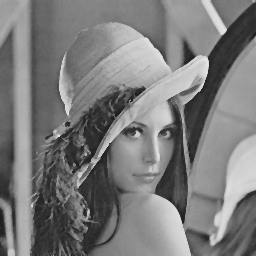
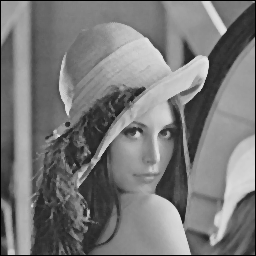
feat(mvk_filter) Optimize median-filter3x3

diff --git a/src/modules/filter/src/median_filter.cpp b/src/modules/filter/src/median_filter.cpp
@@ -86,6 +86,7 @@ namespace mvk
         return 0;
     }
 
+    //比较获取两个数字最大最小值
     template<typename T>
     inline void SwapSort(T& a, T& b)
     {
@@ -100,32 +101,50 @@ namespace mvk
     {
         //参数检查
         if(src.GetData() == nullptr){ return -1; }
+        int channel = src.GetChannel();
         int rows = src.GetHeight();
-        int cols = src.GetWidth();
+        int cols = src.GetWidth() * channel;
 
         //边界只有1无需扩充边界
-        dst = src.Copy();
+        uint8_t* data = new uint8_t[rows * cols * channel]();
+        if(1 == channel)
+        {
+            dst = Image(data, src.GetHeight(), src.GetWidth(), IMAGE_FORMAT::MONO_8_BIT);
+        }else if(3 == channel)
+        {
+            dst = Image(data, src.GetHeight(), src.GetWidth(), IMAGE_FORMAT::RGB_24_BIT);
+        }else
+        {
+            dst = src.Copy();
+            return -1;
+        }
 
         //遍历进行中值滤波
         constexpr std::size_t simd_size = xsimd::simd_type<uint8_t>::size;
-        int vec_size = cols - (cols - 2) % simd_size - 2;
+        int vec_size = cols - (cols - 2 * channel) % simd_size - 2 *channel;
 
         #pragma omp parallel for
         for(int i = 1; i < rows - 1; i++)
         {
-            for(int j = 1; j < vec_size; j += simd_size)
+            uint8_t* row0 = src.GetRow(i - 1);
+            uint8_t* row1 = src.GetRow(i);
+            uint8_t* row2 = src.GetRow(i + 1);
+            uint8_t* row_dst = dst.GetRow(i);
+
+            //simd指令集优化
+            for(int j = channel; j < vec_size; j += simd_size)
             {
-                auto P0 = xsimd::load_unaligned(src.GetPixel(i , j));
-                auto P1 = xsimd::load_unaligned(src.GetPixel(i - 1, j));
-                auto P2 = xsimd::load_unaligned(src.GetPixel(i - 1, j +1));
+                auto P0 = xsimd::load_unaligned(row0 + j - channel);
+                auto P1 = xsimd::load_unaligned(row0 + j);
+                auto P2 = xsimd::load_unaligned(row0 + j + channel);
 
-                auto P3 = xsimd::load_unaligned(src.GetPixel(i, j -1));
-                auto P4 = xsimd::load_unaligned(src.GetPixel(i, j));
-                auto P5 = xsimd::load_unaligned(src.GetPixel(i, j +1));
+                auto P3 = xsimd::load_unaligned(row1 + j - channel);
+                auto P4 = xsimd::load_unaligned(row1 + j);
+                auto P5 = xsimd::load_unaligned(row1 + j + channel);
 
-                auto P6 = xsimd::load_unaligned(src.GetPixel(i + 1, j -1));
-                auto P7 = xsimd::load_unaligned(src.GetPixel(i + 1, j));
-                auto P8 = xsimd::load_unaligned(src.GetPixel(i + 1, j +1));
+                auto P6 = xsimd::load_unaligned(row2 + j - channel);
+                auto P7 = xsimd::load_unaligned(row2 + j);
+                auto P8 = xsimd::load_unaligned(row2 + j + channel);
 
                 //比较交换获取中值
                 SwapSort(P1, P2);		SwapSort(P4, P5);		SwapSort(P7, P8);
@@ -137,22 +156,23 @@ namespace mvk
                 SwapSort(P4, P2);
 
                 //保存结果
-                P4.store_unaligned(dst.GetPixel(i, j));
+                P4.store_unaligned(row_dst + j);
             }
 
-            for(int j = vec_size; j < cols - 1; j++)
+            //处理不满足simd优化部分
+            for(int j = vec_size; j < cols - channel; j++)
             {
-                uint8_t P0 = src.GetPixel(i - 1, j - 1)[0];
-                uint8_t P1 = src.GetPixel(i - 1, j)[0];
-                uint8_t P2 = src.GetPixel(i - 1, j + 1)[0];
+                uint8_t P0 = *(row0 + j - channel);
+                uint8_t P1 = *(row0 + j);
+                uint8_t P2 = *(row0 + j + channel);
 
-                uint8_t P3 = src.GetPixel(i, j - 1)[0];
-                uint8_t P4 = src.GetPixel(i, j)[0];
-                uint8_t P5 = src.GetPixel(i, j + 1)[0];
+                uint8_t P3 = *(row1 + j - channel);
+                uint8_t P4 = *(row1 + j);
+                uint8_t P5 = *(row1 + j + channel);
 
-                uint8_t P6 = src.GetPixel(i + 1, j - 1)[0];
-                uint8_t P7 = src.GetPixel(i + 1, j)[0];
-                uint8_t P8 = src.GetPixel(i + 1, j + 1)[0];
+                uint8_t P6 = *(row2 + j - channel);
+                uint8_t P7 = *(row2 + j);
+                uint8_t P8 = *(row2 + j + channel);
 
                 if (P1 > P2) std::swap(P1, P2);
                 if (P4 > P5) std::swap(P4, P5);
@@ -173,65 +193,8 @@ namespace mvk
                 if (P4 > P2) std::swap(P4, P2);
                 if (P6 > P4) std::swap(P6, P4);
                 if (P4 > P2) std::swap(P4, P2);
-                
-                dst.GetPixel(i , j)[0] = P4;
-            }
-        }
-        return 0;
-    }
 
-    int MedianFilter3x34(const Image& src, Image& dst)
-    {
-        //参数检查
-        if(src.GetData() == nullptr){ return -1; }
-        int rows = src.GetHeight();
-        int cols = src.GetWidth();
-
-        //边界只有1无需扩充边界
-        dst = src.Copy();
-
-        //遍历进行中值滤波
-        //int simd_size = 32; //avx2-uchar
-        //int vec_size = cols - (cols - 1) % simd_size;
-
-        for(int i = 1; i < rows - 1; i++)
-        {
-            for(int j = 1; j < cols - 1; j++)
-            {
-                uint8_t P0 = src.GetPixel(i - 1, j - 1)[0];
-                uint8_t P1 = src.GetPixel(i - 1, j)[0];
-                uint8_t P2 = src.GetPixel(i - 1, j + 1)[0];
-
-                uint8_t P3 = src.GetPixel(i, j - 1)[0];
-                uint8_t P4 = src.GetPixel(i, j)[0];
-                uint8_t P5 = src.GetPixel(i, j + 1)[0];
-
-                uint8_t P6 = src.GetPixel(i + 1, j - 1)[0];
-                uint8_t P7 = src.GetPixel(i + 1, j)[0];
-                uint8_t P8 = src.GetPixel(i + 1, j + 1)[0];
-
-                
-                if (P1 > P2) std::swap(P1, P2);
-                if (P4 > P5) std::swap(P4, P5);
-                if (P7 > P8) std::swap(P7, P8);
-                if (P0 > P1) std::swap(P0, P1);
-                if (P3 > P4) std::swap(P3, P4);
-                if (P6 > P7) std::swap(P6, P7);
-                if (P1 > P2) std::swap(P1, P2);
-                if (P4 > P5) std::swap(P4, P5);
-                if (P7 > P8) std::swap(P7, P8);
-                if (P0 > P3) std::swap(P0, P3);
-                if (P5 > P8) std::swap(P5, P8);
-                if (P4 > P7) std::swap(P4, P7);
-                if (P3 > P6) std::swap(P3, P6);
-                if (P1 > P4) std::swap(P1, P4);
-                if (P2 > P5) std::swap(P2, P5);
-                if (P4 > P7) std::swap(P4, P7);
-                if (P4 > P2) std::swap(P4, P2);
-                if (P6 > P4) std::swap(P6, P4);
-                if (P4 > P2) std::swap(P4, P2);
-
-                dst.GetPixel(i , j)[0] = P4;
+                *(row_dst + j) = P4;
             }
         }
         return 0;

diff --git a/src/modules/filter/benchmark/median_filter_benchmark.cpp b/src/modules/filter/benchmark/median_filter_benchmark.cpp
@@ -12,33 +12,37 @@
 #include "filter/median_filter.hpp"
 #include <chrono>
 #include <iostream>
+#include <vector>
+#include <tuple>
 
 using namespace mvk;
 
 int main(int argc, char** argv)
 {
     //halcon性能基准 640x480 0.09ms i7-4770 3.40 GHz
-    Image img640x480(640, 480, 128);
-    Image img1, img2;
-    auto t0 = std::chrono::system_clock::now();
-    MedianFilter3x3(img640x480, img1);
-    auto t1 = std::chrono::system_clock::now();
-    //MedianFilter(img640x480, img2, 3);
-    auto t2 = std::chrono::system_clock::now();
+    std::vector<std::tuple<size_t, size_t>> img_sizes = {{640, 480}, {1280, 720}, {1280, 960}, {1920, 1080}, {1600, 1200}, {2048, 1536}, {2592, 1944}, {3264, 2448}, {3840, 2160}, {4224, 3168}, {5344, 4106}};
 
-    std::cout << "MedianFilter3x3 cost "<< std::chrono::duration_cast<std::chrono::milliseconds>(t1 - t0).count() << " ms." << std::endl;
-    std::cout << "MedianFilter cost "<< std::chrono::duration_cast<std::chrono::milliseconds>(t2 - t1).count() << " ms." << std::endl;
+    std::cout << "-------------mvk-nodes filter mono median-filter3x3 benchenmark------------------\n";
+    for(auto&& [len, wid]: img_sizes)
+    {
+        Image src(len, wid, 128);
+        Image dst;
+        auto t0 = std::chrono::system_clock::now();
+        MedianFilter3x3(src, dst);
+        auto t1 = std::chrono::system_clock::now();
+        std::cout <<std::to_string(len) + "x" + std::to_string(wid) + " cost "<< std::chrono::duration_cast<std::chrono::milliseconds>(t1 - t0).count() << " ms." << std::endl;
+    }
 
-    Image img1000x1000(1000, 1000, 128);
-    Image img3, img4;
-    auto t3 = std::chrono::system_clock::now();
-    MedianFilter3x3(img1000x1000, img3);
-    auto t4 = std::chrono::system_clock::now();
-    MedianFilter(img1000x1000, img4, 3);
-    auto t5 = std::chrono::system_clock::now();
-
-    std::cout << "MedianFilter3x3 cost "<< std::chrono::duration_cast<std::chrono::milliseconds>(t4 - t3).count() << " ms." << std::endl;
-    std::cout << "MedianFilter cost "<< std::chrono::duration_cast<std::chrono::milliseconds>(t5 - t4).count() << " ms." << std::endl;
+    std::cout << "-------------mvk-nodes filter rgb median-filter3x3 benchenmark------------------\n";
+    for(auto&& [len, wid]: img_sizes)
+    {
+        Image src(len, wid, {128, 90, 150});
+        Image dst;
+        auto t0 = std::chrono::system_clock::now();
+        MedianFilter3x3(src, dst);
+        auto t1 = std::chrono::system_clock::now();
+        std::cout <<std::to_string(len) + "x" + std::to_string(wid) + " cost "<< std::chrono::duration_cast<std::chrono::milliseconds>(t1 - t0).count() << " ms." << std::endl;
+    }
 
     return 0;
 }

diff --git a/src/modules/filter/test/test_median_filter.cpp b/src/modules/filter/test/test_median_filter.cpp
@@ -37,4 +37,8 @@ TEST_CASE("test mvk-filter median-filter", "[mvk-filter]")
     Image mono_medianfilter_fast3x3;
     REQUIRE(MedianFilter3x3(mono, mono_medianfilter_fast3x3) == 0);
     REQUIRE(mono_medianfilter_fast3x3.Save(std::string(DATA) + "/images/mvk_filter/mono_medianfilter_fast3x3.png") == 0);
+
+    Image rgb_medianfilter_fast3x3;
+    REQUIRE(MedianFilter3x3(rgb_img, rgb_medianfilter_fast3x3) == 0);
+    REQUIRE(rgb_medianfilter_fast3x3.Save(std::string(DATA) + "/images/mvk_filter/rgb_medianfilter_fast3x3.png") == 0);
 }
